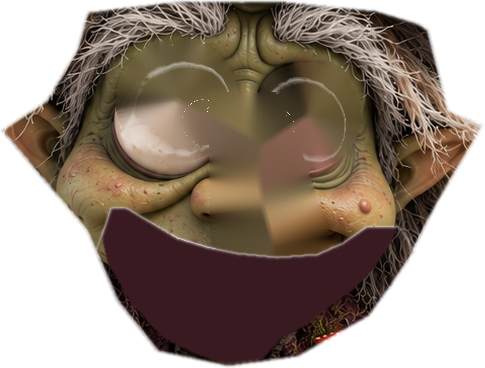
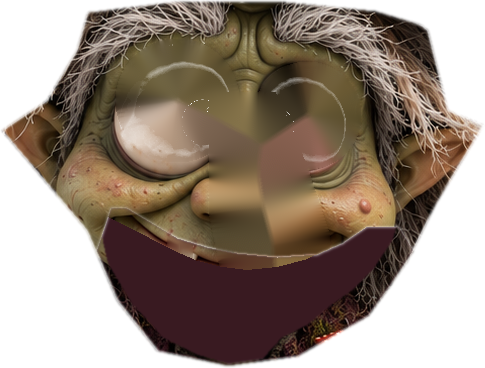
Add files via upload

Changed region(s): [[0.2165, 0.5679, 0.6495, 0.7473]]

diff --git a/src/engine.js b/src/engine.js
@@ -390,6 +390,35 @@ class Animator{
     if(lv-sp.pv>0.35&&sp.t-sp.lastPeak>0.35){sp.lastPeak=sp.t;sp.emph=1;}sp.pv=lerp(sp.pv,lv,0.5);sp.emph=Math.max(0,sp.emph-dt/0.25);
     if(!locks.mouth){out['mouth.shape']=sp.shape||set.closed;out['mouth.open']=lv;out['jaw.scale']=0.5+0.5*lv;}
     out['head.rot']+=-2*sp.emph;out['brow.L.raise']+=0.25*sp.emph;out['brow.R.raise']+=0.25*sp.emph;}}
+  // ---- liveliness: continuous cartoon secondary motion + random idle gags (additive; calmer while a scripted action runs) ----
+  {const amp=(this.action?0.35:1)*(this.live==null?1:this.live),sp3=this.speech,lvl=sp3?clamp(sp3.pv*1.6,0,1):0,em=sp3?sp3.emph:0,st=sp3?sp3.t:t,sn=(f,ph)=>Math.sin(t*f+(ph||0)),pos=x=>x>0?x:0;
+   out['body.rot']+=amp*(1.5*sn(0.7,2)+0.5*sn(1.9));out['body.x']+=amp*3*sn(0.55);out['body.y']+=amp*2.5*sn(1.6);
+   out['body.squash']+=amp*(0.03*sn(2.4)+em*0.12);out['body.hunch']+=amp*0.06*sn(0.8);
+   out['head.rot']+=amp*(2.4*sn(0.9)+1*sn(2.1,1))+(sp3?4*Math.sin(st*4.1)*lvl+(-3)*em:0);
+   out['head.x']+=amp*(4*sn(0.7,1)+(sp3?5*Math.sin(st*2.6)*lvl:0));out['head.y']+=amp*3*sn(1.5)+(sp3?-12*em+3*lvl*Math.sin(st*7):0);
+   out['head.pitch']+=amp*0.1*sn(0.6,1)+(sp3?0.18*Math.sin(st*3.3)*lvl:0);out['head.yaw']+=amp*0.1*sn(0.45);
+   out['brow.L.raise']+=amp*0.3*Math.pow(pos(sn(0.9)),3)+(sp3?0.3*lvl*pos(Math.sin(st*5.3)):0);out['brow.R.raise']+=amp*0.3*Math.pow(pos(sn(1.1,2)),3)+(sp3?0.3*lvl*pos(Math.sin(st*4.7+1)):0);
+   out['brow.L.angle']+=amp*3*sn(0.8,1);out['brow.R.angle']+=amp*3*sn(0.7,3);
+   out['nose.rot']+=amp*(1.4*sn(3.1)+7*Math.pow(pos(sn(0.33)),10)*sn(19));
+   out['arm.L.shoulder']+=amp*(5*sn(0.9,1)+4*sn(2.3))+(sp3?28*lvl*(0.5+0.5*Math.sin(st*2.3)):0);out['arm.L.elbow']+=amp*4*sn(1.1)+(sp3?-18*lvl*(0.5+0.5*Math.sin(st*2.3+1)):0);
+   out['arm.R.shoulder']+=amp*(3*sn(0.8)+2*sn(2.7))+(sp3?9*lvl*Math.sin(st*2.9):0);out['arm.R.elbow']+=amp*3*sn(1.3,2);
+   out['hat.lift']+=amp*3*pos(sn(1.2))+8*em;out['hat.squash']+=amp*0.012*sn(1.4)-0.045*em;
+   const tap=clamp((sn(0.22)-0.5)*4,0,1);out['leg.L.rot']+=amp*(tap*7*pos(Math.sin(t*7.5)));out['leg.R.rot']+=amp*(2*sn(0.5)+tap*0);
+   out['flask.glow']+=amp*0.5*Math.pow(pos(sn(0.45)),2);
+   out['eye.L.size']+=amp*0.015*sn(1.7);out['eye.R.size']+=amp*0.015*sn(1.7,1);
+   // random idle gags: only when nothing scripted is happening
+   const g=this.gag;
+   if(!g&&!this.action&&!sp3&&(this.mood==='neutral'||this.mood==='happy')&&t>=(this.nextGag==null?(this.nextGag=t+4):this.nextGag)){const ids=['doubletake','shiver','hop','hatwiggle','sniff','shrug','peek'];let id;do{id=ids[Math.floor(rng()*ids.length)];}while(id===this.lastGag);this.lastGag=id;this.gag={id,t0:t,dur:{doubletake:1.5,shiver:1.0,hop:0.8,hatwiggle:1.3,sniff:1.3,shrug:1.2,peek:1.8}[id]};this.nextGag=t+5+rng()*5;this.log('gag '+id);}
+   const G=this.gag;if(G){if(this.action||sp3){this.gag=null;}else{const u=(t-G.t0)/G.dur;if(u>=1)this.gag=null;else{const e=Math.sin(Math.PI*u),w=Math.sin(u*TAU);
+    if(G.id==='doubletake'){out['head.rot']+=-7*e*(u<0.5?1:-0.6)*1;out['head.yaw']+=(u<0.4?-0.5:0.5)*e;out['eye.scale']=lerp(out['eye.scale'],1.12,e);out['brow.L.raise']+=e;out['brow.R.raise']+=e;out['head.y']+=-14*e;}
+    else if(G.id==='shiver'){const sh=e*Math.sin(t*55);out['head.x']+=4*sh;out['body.rot']+=1.5*sh;out['brow.L.angle']+=8*e;out['brow.R.angle']+=8*e;out['arm.L.shoulder']+=6*sh;}
+    else if(G.id==='hop'){const a=u<0.2?u/0.2:0;out['body.squash']+=0.25*a*(1-a*0.2)+(u>0.75?0.2*Math.sin((u-0.75)/0.25*Math.PI):0)-0.18*(u>0.2&&u<0.75?e:0);out['body.y']+=-45*(u>0.2&&u<0.8?Math.sin((u-0.2)/0.6*Math.PI):0);out['arm.L.shoulder']+=30*e;out['arm.R.shoulder']+=18*e;out['hat.lift']+=10*e;}
+    else if(G.id==='hatwiggle'){out['hat.lift']+=16*e;out['hat.squash']+=0.05*Math.sin(u*TAU*3)*e;out['head.rot']+=3*Math.sin(u*TAU*2)*e;out['brow.L.raise']+=0.6*e;out['brow.R.raise']+=0.6*e;}
+    else if(G.id==='sniff'){out['nose.rot']+=9*Math.sin(u*TAU*4)*e;out['head.pitch']+=-0.35*e;out['head.y']+=-6*e;out['body.squash']+=-0.05*e*Math.abs(Math.sin(u*TAU*2));}
+    else if(G.id==='shrug'){out['arm.L.shoulder']+=20*e;out['arm.R.shoulder']+=12*e;out['head.rot']+=6*e;out['brow.L.raise']+=0.7*e;out['brow.R.raise']+=0.2*e;out['body.hunch']+=-0.2*e;out['body.y']+=-10*e;}
+    else if(G.id==='peek'){out['head.yaw']+=0.9*Math.sin(u*TAU)*(u<0.5?1:1);out['head.rot']+=-5*Math.sin(u*TAU);out['brow.L.angle']+=-10*e;out['brow.R.angle']+=-10*e;out['eye.squint']=lerp(out['eye.squint'],0.5,e);}
+   }}}
+  }
   for(const p in this.pins)if(p in out)out[p]=this.pins[p];
   // jaw derived from mouth shape
   out['jaw.drop']=(MOUTH[out['mouth.shape']]||MOUTH.neutral).jaw*out['jaw.scale'];
@@ -489,7 +518,7 @@ function applyArtFit(){const L=PAINTED.landmarks,set=(id,px)=>{if(NODE[id])NODE[
  set('w-arm-L-upper',L.shoulderL);set('w-arm-L-fore',L.elbowL);set('w-hand-L',L.wristL);set('w-arm-R-upper',L.shoulderR);set('w-arm-R-fore',L.elbowR);set('w-hand-R',L.wristR);set('w-flask',L.wristR);set('w-flask-mouth',L.flask_mouth);
  set('w-leg-L',L.kneeL);set('w-leg-R',L.kneeR);set('w-mount-frog',[470,990]);set('w-shadow',[L.neck[0],L.ground]);
  const eL=R(L.eyeL[0],L.eyeL[1]),eR=R(L.eyeR[0],L.eyeR[1]);ART.eyeL=[eL[0],eL[1],Ru(L.eyeL[2])];ART.eyeR=[eR[0],eR[1],Ru(L.eyeR[2])];
- const m=R(L.mouth.x,L.mouth.top);ART.mouth={x:m[0],top:m[1],scale:Ru(L.mouth.w)/230,cl:R(548,796),cr:R(790,815),mid:R(700,846),pts:PAINTED.lip.map(q=>R(q[0],q[1]))};ART.jawTravel=Ru(150);ART.lidCols={"L": {"mid": "#7a6947", "dark": "#554831", "light": "#a89379"}, "R": {"mid": "#796743", "dark": "#5c4d2f", "light": "#b3976d"}};const tt=PAINTED.manifest['mouth-teeth-top'];ART.toothRect=[...R(tt.x,tt.y),Ru(tt.w),Ru(tt.h)];
+ const m=R(L.mouth.x,L.mouth.top);ART.mouth={x:m[0],top:m[1],scale:Ru(L.mouth.w)/230,cl:R(540,810),cr:R(775,822),mid:R(700,855),pts:PAINTED.lip.map(q=>R(q[0],q[1]))};ART.jawTravel=Ru(150);ART.lidCols={"L": {"mid": "#7a6947", "dark": "#554831", "light": "#a89379"}, "R": {"mid": "#796743", "dark": "#5c4d2f", "light": "#b3976d"}};const tt=PAINTED.manifest['mouth-teeth-top'];ART.toothRect=[...R(tt.x,tt.y),Ru(tt.w),Ru(tt.h)];
  Object.assign(A,PAINTED.skin);PARALLAX.x=24;PARALLAX.y=14;NODE['w-nose'].depth=0.55;NODE['w-eye-L'].depth=0.35;NODE['w-eye-R'].depth=0.35;NODE['w-brow-L'].depth=0.4;NODE['w-brow-R'].depth=0.4;NODE['w-mouth'].depth=0.3;NODE['w-jaw'].depth=0.25;}
 // hands draw under the cuffs with painted art
 function drawEyePainted(ctx,P,side,cx,cy,r0){const s='eye.'+side,r=r0*P[s+'.size']*P['eye.scale'],sg=side==='L'?1:-1,ball=side==='L'?EYEKIT.ballL:EYEKIT.ballR,HB=RASTER['w-head-base'];

diff --git a/src/actors.js b/src/actors.js
@@ -95,7 +95,7 @@ function drawGhost(ctx,W,H,dt){
   if(ghost.st==='gone'||ghost.st==='captured')return;                 // captured ghosts are drawn by the jar (in front of it)
   ghost.t+=dt;ghost.appear=Math.min(1,ghost.appear+dt/0.7);ghost.notice=Math.max(0,ghost.notice-dt);
   const size=H*GSIZE,[hx,hy]=ghostHome(W,H),T=ghost.t,id=s.ghost,tr=GTRAITS[id]||{lid:0.3};
-  const o=ghostIdle(id,T);let look=[o.gx,o.gy],lid=Math.min(0.85,tr.lid+o.lidAdd),jx=0,jy=0;
+  const o=ghostIdle(id,T);o.rot=(o.rot||0)+0.05*Math.sin(T*1.6+1);o.dy=(o.dy||0)+0.025*Math.sin(T*2.3);o.sx=(o.sx||1)*(1+0.02*Math.sin(T*2.9));o.sy=(o.sy||1)*(1-0.02*Math.sin(T*2.9));let look=[o.gx,o.gy],lid=Math.min(0.85,tr.lid+o.lidAdd),jx=0,jy=0;
   if(ghost.notice>0){look=[-0.7,0.5];lid=Math.max(0,lid-0.3);jy=-Math.sin(Math.min(1,(1.4-ghost.notice)/0.25)*Math.PI)*0.06;}   // a wrong scan: it peeks at the witch, startled
   ghost.x=Math.min(hx+o.dx*size+jx*size,W-size*0.62);ghost.y=hy+(o.dy+jy)*size;ghost.sx=o.sx;ghost.sy=o.sy;ghost.size=size;
   const k=ghost.appear<1?easeOutBack(ghost.appear):1;ghost.alpha=Math.min(1,ghost.appear*2);
